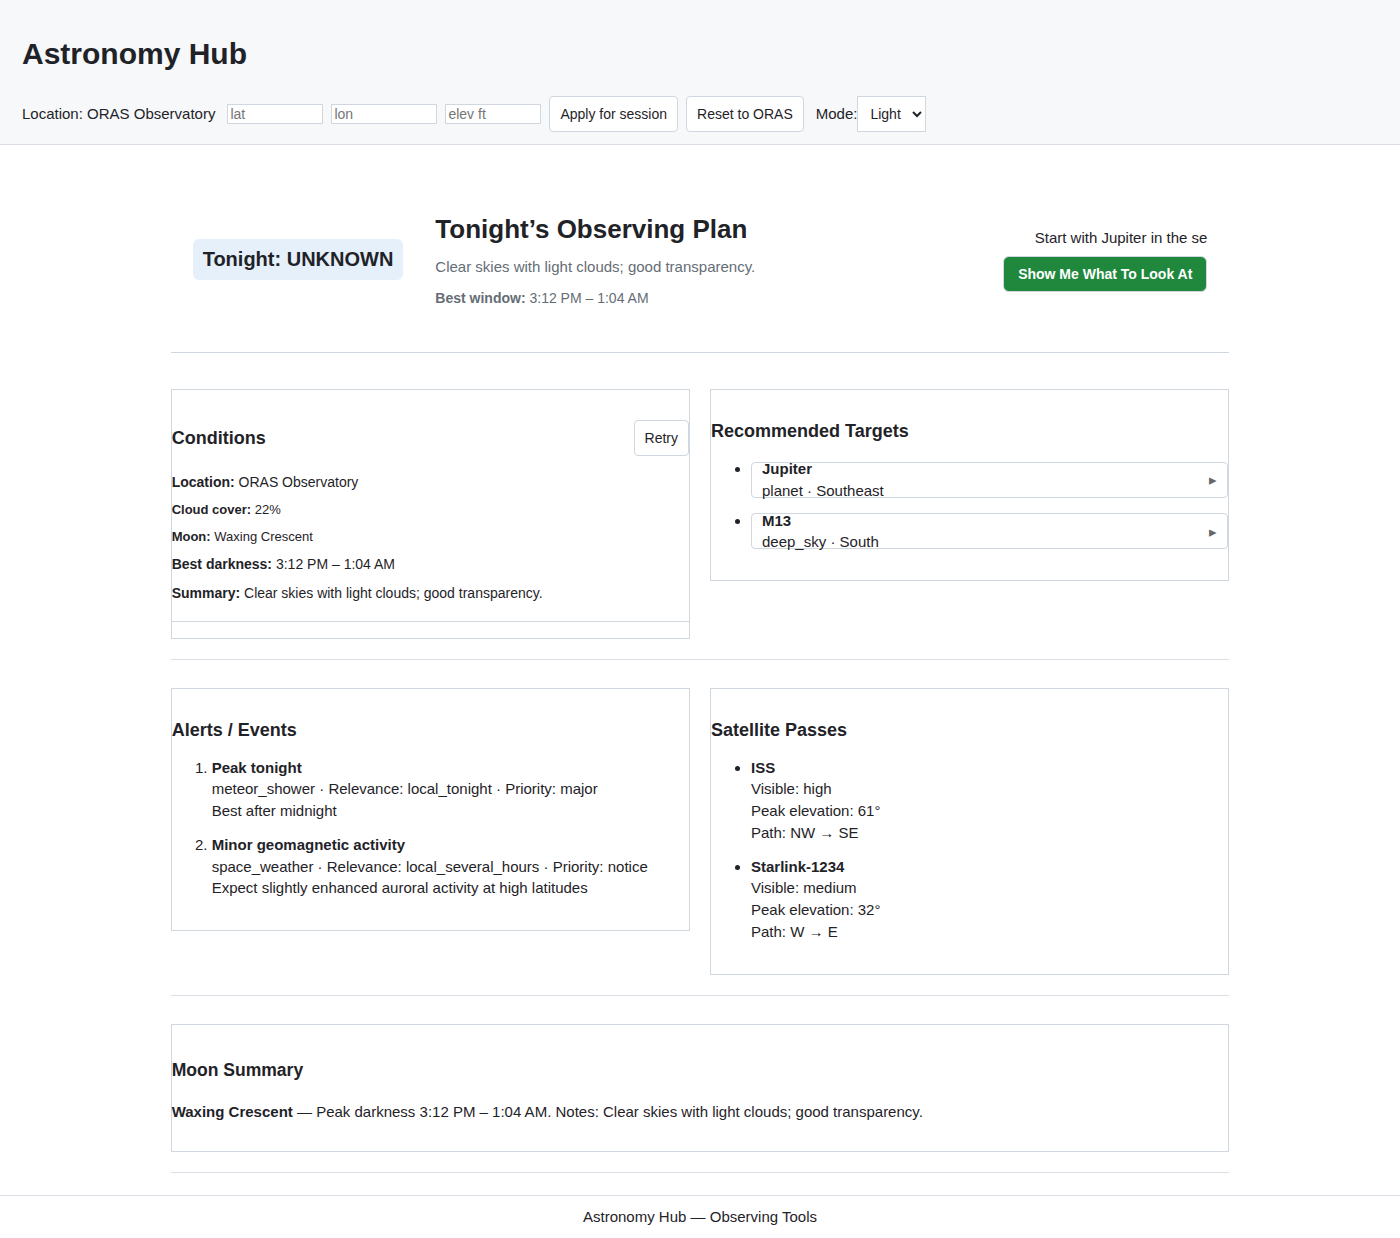
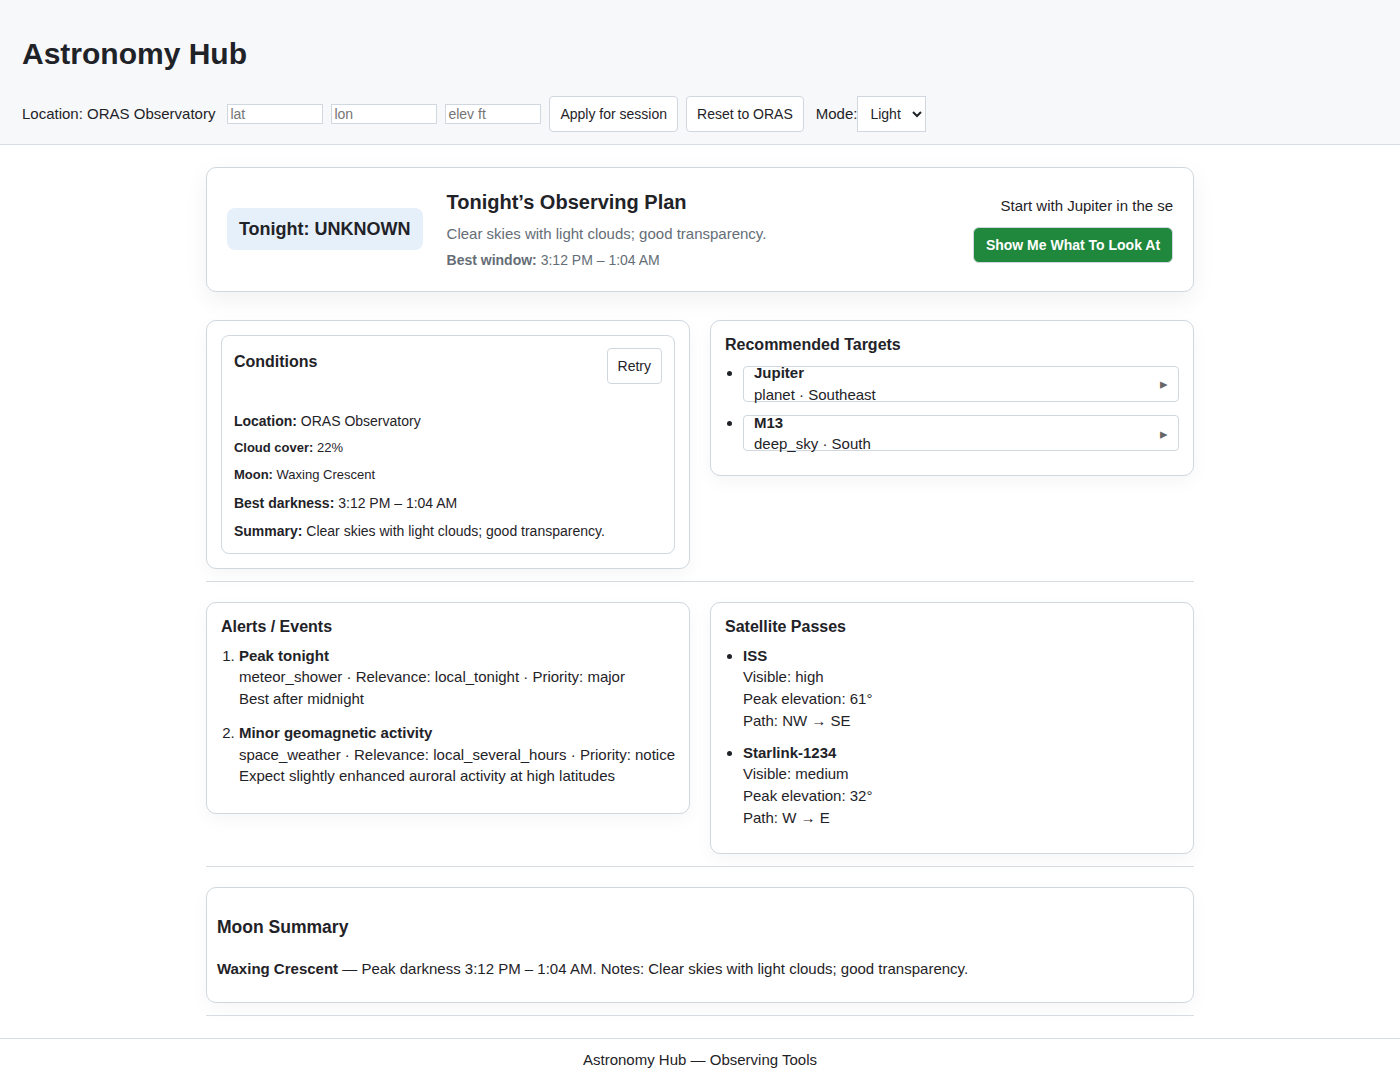
feat(layout): command-center panels, denser rhythm, hero command block

diff --git a/frontend/src/styles.css b/frontend/src/styles.css
@@ -210,4 +210,36 @@ body{font-family: Arial, Helvetica, sans-serif;margin:0;padding:0;font-size:var(
   .cond-summary { margin-top:6px; color: inherit }
   .cond-summary.muted { color: var(--text-muted) }
 
+/* Command-center / panel visuals */
+.app-shell .panel { background: var(--surface-bg); border: 1px solid var(--surface-border); padding: 14px; border-radius: 10px; box-shadow: 0 6px 18px rgba(0,0,0,0.04); }
+.app-shell .panel.small-panel { padding: 10px; }
+
+/* Tighter, denser rhythm for operational layout */
+.app-shell .dashboard { gap: 14px }
+.app-shell .section { padding: 6px 0 12px 0 }
+
+/* Hero: stronger command block styling */
+.app-shell .primary-decision-panel { display:flex; gap:24px; align-items:center; padding:20px; border-radius:10px; box-shadow: 0 8px 24px rgba(0,0,0,0.06); border:1px solid var(--surface-border); }
+.app-shell .primary-decision-panel .pdp-left { min-width:160px; display:flex; align-items:center; justify-content:flex-start }
+.app-shell .primary-decision-panel .pdp-status { font-size:18px; font-weight:800; padding:8px 12px; border-radius:8px }
+.app-shell .primary-decision-panel .pdp-center { flex:1 }
+.app-shell .primary-decision-panel .pdp-center h2 { font-size:20px; margin:0 0 6px 0 }
+.app-shell .primary-decision-panel .pdp-summary { margin:0 0 6px 0 }
+.app-shell .primary-decision-panel .pdp-right { min-width:220px; display:flex; flex-direction:column; gap:10px; align-items:flex-end }
+.app-shell .primary-decision-panel .pdp-top-target { text-align:right }
+.app-shell .primary-decision-panel .pdp-cta { padding:8px 12px }
+
+/* ModuleShell header/body rhythm */
+.app-shell .module-shell { padding:12px; border-radius:8px; box-shadow: none }
+.app-shell .module-shell-header { padding-bottom:8px; border-bottom:1px solid transparent }
+.app-shell .module-shell .module-shell-body { padding-top:10px }
+
+/* Make module lists feel compact and operational */
+.app-shell .component ul, .app-shell .component ol { margin:0; padding-left:18px }
+.app-shell .component li { margin-bottom:10px }
+
+/* Slightly stronger headings inside panels */
+.app-shell .panel h2 { margin:0 0 8px 0; font-size:16px }
+
+
 

diff --git a/frontend/src/App.jsx b/frontend/src/App.jsx
@@ -180,10 +180,10 @@ export default function App() {
         {/* Section: Targets + Conditions (2-column) */}
         <section className="section section-top">
           <div className="section-grid two-col">
-            <div className="module conditions-module">
+            <div className="module conditions-module panel">
               <Conditions locationQuery={locationQuery} />
             </div>
-            <div className="module targets-module">
+            <div className="module targets-module panel">
               <RecommendedTargets locationQuery={locationQuery} />
             </div>
           </div>
@@ -192,10 +192,10 @@ export default function App() {
         {/* Section: Alerts + Passes (2-column) */}
         <section className="section section-middle">
           <div className="section-grid two-col">
-            <div className="module alerts-module">
+            <div className="module alerts-module panel">
               <AlertsEvents locationQuery={locationQuery} />
             </div>
-            <div className="module passes-module">
+            <div className="module passes-module panel">
               <SatellitePasses locationQuery={locationQuery} />
             </div>
           </div>
@@ -203,7 +203,7 @@ export default function App() {
 
         {/* Section: Moon summary (full width) */}
         <section className="section section-bottom">
-          <div className="module moon-module">
+          <div className="module moon-module panel small-panel">
             <MoonSummary locationQuery={locationQuery} />
           </div>
         </section>

diff --git a/frontend/src/components/ModuleShell.jsx b/frontend/src/components/ModuleShell.jsx
@@ -13,7 +13,7 @@ export default function ModuleShell({ title, stale, onRetry, children }) {
   }
 
   return (
-    <div className="module-shell component">
+    <div className="module-shell component panel">
       <div className="module-shell-header">
         <h2>{title}</h2>
         <div className="module-shell-controls">
